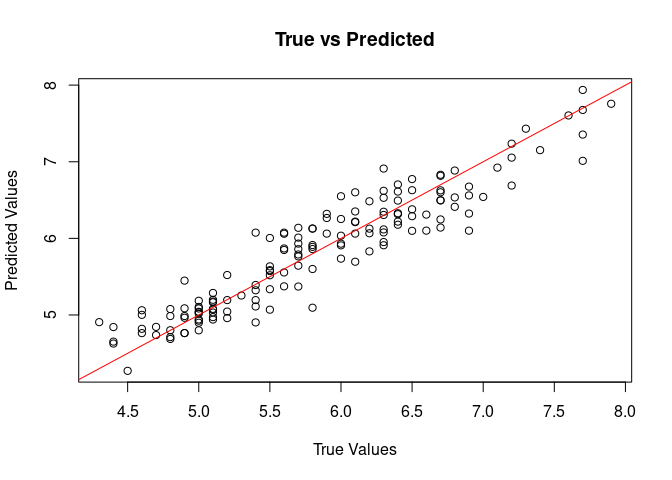
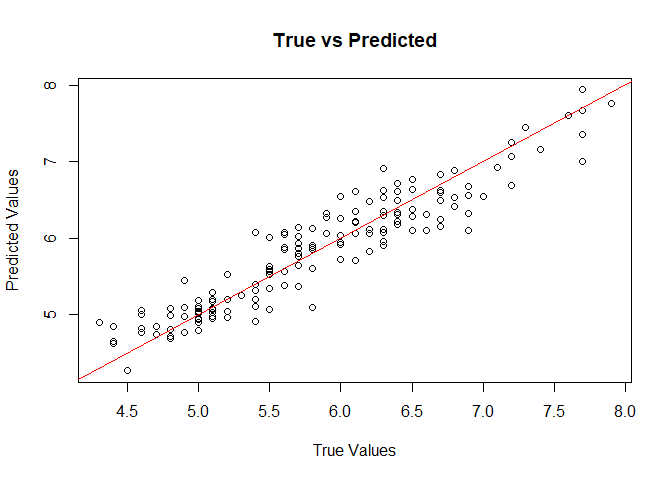
updated README and LICENSE

diff --git a/README.md b/README.md
@@ -5,44 +5,40 @@
 
 <!-- badges: start -->
 
-[![Lifecycle: stable](https://img.shields.io/badge/lifecycle-stable-brightgreen.svg)](https://lifecycle.r-lib.org/articles/stages.html#stable)
+[![Lifecycle:
+stable](https://img.shields.io/badge/lifecycle-stable-brightgreen.svg)](https://lifecycle.r-lib.org/articles/stages.html#stable)
 [![R-CMD-check](https://github.com/swarnendu-stat/bnns/actions/workflows/R-CMD-check.yaml/badge.svg)](https://github.com/swarnendu-stat/bnns/actions/workflows/R-CMD-check.yaml)
 [![Codecov test
 coverage](https://codecov.io/gh/swarnendu-stat/bnns/graph/badge.svg)](https://app.codecov.io/gh/swarnendu-stat/bnns)
 [![rhub](https://github.com/swarnendu-stat/bnns/actions/workflows/rhub.yaml/badge.svg)](https://github.com/swarnendu-stat/bnns/actions/workflows/rhub.yaml)
 <!-- badges: end -->
 
-The **`bnns`** package brings the predictive power of deep learning to the rigorous probabilistic framework of Bayesian inference. By fitting Bayesian Neural Networks (BNNs) using Stan, `bnns` allows you to automatically capture complex, non-linear patterns in your data while seamlessly quantifying predictive uncertainty.
-
-Whether you are working on regression, binary classification, or multi-class problems, `bnns` provides a flexible, easy-to-use interface to build customizable network architectures that output full posterior predictive distributions. This makes it ideal for high-stakes domains—like clinical trials, predictive modeling, or finance—where knowing what your model *doesn't* know is just as important as the prediction itself.
+The `bnns` package provides tools to fit Bayesian Neural Networks (BNNs)
+for regression and classification problems. It is designed to be
+flexible, supporting various network architectures, activation
+functions, and output types, making it suitable for both simple and
+complex data analysis tasks.
 
 ## Features
 
 - Support for multi-layer neural networks with customizable
   architecture.
-- Choice of activation functions (e.g., sigmoid, ReLU, tanh).
-- Outputs for regression (continuous response) and classification
-  (binary and multiclass).
+- Choice of activation functions (e.g., sigmoid, ReLU, tanh) and output
+  types for regression (continuous) and classification (binary and
+  multiclass).
 - Choice of prior distributions for weights, biases and sigma (for
   regression).
-- Bayesian inference, providing posterior distributions for predictions
-  and parameters.
-- GPU acceleration support for heavy network architectures via OpenCL.
+- Seamless integration with the `tidymodels` ecosystem (`parsnip`,
+  `recipes`, `workflows`, `tune`).
+- GPU acceleration support via OpenCL for significantly faster model
+  training.
+- Built-in functions for model evaluation (`loo.bnns()`, `waic.bnns()`),
+  plotting (`plot.bnns()`), and saving/loading (`save_bnns()`,
+  `load_bnns()`).
+- Bayesian inference, providing rigorous uncertainty quantification via
+  posterior distributions for predictions and parameters.
 - Applications in domains such as clinical trials, predictive modeling,
   and more.
-
-## Why `bnns`? (vs. `brms`)
-
-While `brms` is the gold standard for traditional Bayesian statistical modeling in R, **`bnns`** serves a highly complementary purpose: **combining the predictive power of deep learning with the rigorous uncertainty quantification of Bayesian inference.**
-
-* **Purpose-Built for Neural Networks:** Automatically learns complex, high-dimensional interactions and non-linearities without manually specifying splines or Gaussian processes.
-* **Native Machine Learning Integration:** Built with modern ML pipelines in mind, featuring a fully integrated `parsnip` engine (`set_engine("bnns")`) for seamless use within `tidymodels`.
-* **GPU Acceleration:** Neural networks are computationally expensive. `bnns` exposes OpenCL GPU acceleration out-of-the-box (`use_gpu = TRUE`) for drastically faster training.
-* **Streamlined Classification:** Built-in output activations (softmax, logistic sigmoid) and evaluation metrics make probabilistic multi-class and binary boundaries straightforward.
-
-**When to Choose Which?**
-* Choose **`brms`** for **inference and interpretability** (e.g., understanding specific predictor effect sizes or hierarchical random effects).
-* Choose **`bnns`** for **predictive accuracy with uncertainty** (e.g., complex data with unknown non-linear interactions in high-stakes domains like clinical trials or finance).
 
 ## Installation (stable CRAN version)
 
@@ -114,20 +110,20 @@ summary(iris_bnn)
 #> Output activation function: 1 
 #> 
 #> Posterior Summary (Key Parameters):
-#>                mean      se_mean         sd       2.5%         25%        50%
-#> w_out[1]  0.8345667 0.0728930420 0.65030179 -0.4150176  0.38054488  0.7769148
-#> w_out[2] -0.3719132 0.4067431773 0.96605220 -1.7062097 -1.03225732 -0.7365945
-#> w_out[3]  0.4783495 0.1965466796 0.86504113 -1.2350476  0.02944919  0.5634587
-#> w_out[4]  0.4537029 0.3334670001 0.89069977 -1.3791675  0.09313077  0.5518418
-#> b_out     2.2082591 0.0614548175 1.18859472 -0.1036760  1.38416657  2.2072194
-#> sigma     0.3015085 0.0004831093 0.01804107  0.2693205  0.28895030  0.3013415
-#>                75%     97.5%       n_eff      Rhat
-#> w_out[1] 1.2478028 2.1730066   79.589862 1.0254227
-#> w_out[2] 0.4680286 1.7548944    5.641059 1.3136052
-#> w_out[3] 1.0454306 2.0448172   19.370556 1.1335888
-#> w_out[4] 1.0281249 2.0733860    7.134392 1.1997484
-#> b_out    3.1573563 4.2214829  374.072451 1.0016806
-#> sigma    0.3128869 0.3386066 1394.549362 0.9988699
+#>                mean      se_mean         sd        2.5%         25%        50%
+#> w_out[1] -0.5942278 0.2183999192 0.79456857 -1.86701355 -1.09251619 -0.8169628
+#> w_out[2]  0.8336814 0.1038869956 0.73827166 -0.51846423  0.33211823  0.7957336
+#> w_out[3]  0.4338102 0.2921135070 0.86147575 -1.36143601  0.04394916  0.5954254
+#> w_out[4]  0.6850131 0.1360689685 0.76972857 -1.04704293  0.29744188  0.7507712
+#> b_out[1]  2.2618133 0.0769776211 1.17876734 -0.02391873  1.42283776  2.2881991
+#> sigma     0.3020955 0.0005477896 0.01953213  0.26715455  0.28850768  0.3012247
+#>                  75%     97.5%       n_eff      Rhat
+#> w_out[1] -0.01503725 1.2874762   13.236032 1.0106679
+#> w_out[2]  1.24910581 2.3385023   50.502168 0.9987815
+#> w_out[3]  1.00906365 1.8752488    8.697268 1.1745061
+#> w_out[4]  1.21289586 1.9468606   32.000519 1.0439056
+#> b_out[1]  3.13716320 4.3023801  234.491563 1.0087978
+#> sigma     0.31349020 0.3406216 1271.368723 0.9999925
 #> 
 #> Model Fit Information:
 #> Iterations: 1000 
@@ -136,8 +132,8 @@ summary(iris_bnn)
 #> Chains: 1 
 #> 
 #> Predictive Performance:
-#> RMSE (training): 0.2821305 
-#> MAE (training): 0.2234606 
+#> RMSE (training): 0.2820529 
+#> MAE (training): 0.2234438 
 #> 
 #> Notes:
 #> Check convergence diagnostics for parameters with high R-hat values.
@@ -160,28 +156,7 @@ plot(iris$Sepal.Length, rowMeans(pred), main = "True vs Predicted", xlab = "True
 abline(0, 1, col = "red")
 ```
 
-<img src="man/figures/README-unnamed-chunk-8-1.png" width="100%" />
-
-## GPU Acceleration
-
-The `bnns` package natively supports GPU acceleration for Bayesian sampling using OpenCL. This can significantly reduce training time for deep or wide network architectures.
-
-To use your GPU, ensure you have the appropriate OpenCL drivers installed, then set `use_gpu = TRUE` and use the `cmdstanr` backend. You may also need to specify the `opencl_ids` for your hardware.
-
-You can check your system's available OpenCL platforms and device IDs by running:
-```r
-opencl_diagnostics()
-```
-
-```r
-# Fit a Bayesian Neural Network on the GPU
-model_gpu <- bnns(y ~ ., 
-  data = your_data, 
-  backend = "cmdstanr",
-  use_gpu = TRUE,
-  opencl_ids = c(0, 0) # Format is c(platform_id, device_id)
-)
-```
+<img src="man/figures/README-unnamed-chunk-8-1.png" alt="" width="100%" />
 
 ## Applications
 
@@ -215,7 +190,7 @@ df <- data.frame(
 # Fit a binary classification BNN
 model <- bnns(y ~ -1 + x1 + x2,
   data = df, L = 2, nodes = c(16, 8),
-  act_fn = c(3, 2), out_act_fn = 2, iter = 1e2,
+  act_fn = c(3, 2), out_act_fn = "sigmoid", iter = 1e2,
   warmup = 5e1, chains = 1
 )
 ```

diff --git a/NEWS.md b/NEWS.md
@@ -1,8 +1,14 @@
 # bnns 0.1.3
 
+* **New Feature**: Added full support for the `tidymodels` ecosystem, including integration with `parsnip`, `recipes`, `workflows`, and `tune`.
+* **New Feature**: Added GPU acceleration support for fitting Bayesian Neural Networks via OpenCL and `cmdstanr`.
+* **New Feature**: Introduced model evaluation metrics using Leave-One-Out (LOO) cross-validation (`loo.bnns()`) and Watanabe-Akaike Information Criterion (`waic.bnns()`).
+* **New Feature**: Added `save_bnns()` and `load_bnns()` functions for easy saving and loading of trained models.
+* **New Feature**: Added a `plot.bnns()` method for visualizing posterior distributions and model convergence.
 * Changed the package to stable lifecycle and prepared for CRAN submission.
 * Added `Additional_repositories: https://mc-stan.org/r-packages/` to fix `cmdstanr` package resolution.
 * Removed the manual rhub GitHub Actions badge from the README.
+* Added `CODE_OF_CONDUCT.md`.
 
 # bnns 0.1.2.9000
 